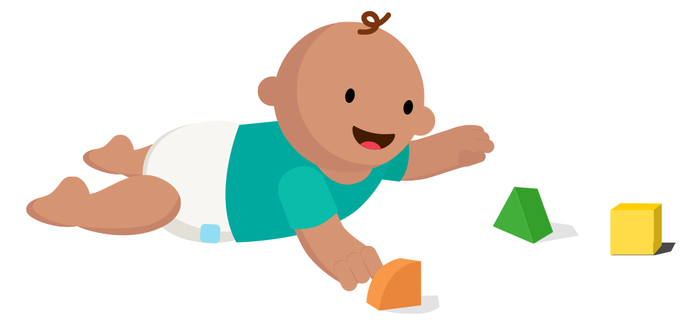
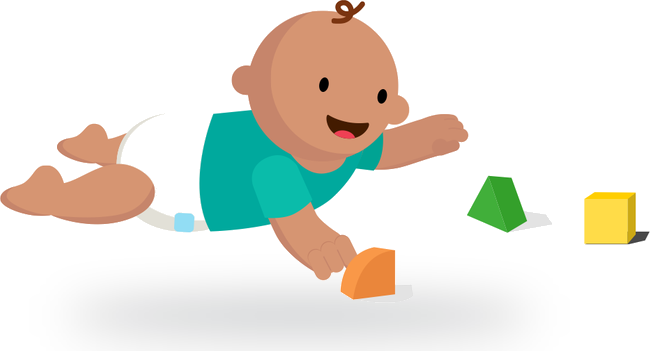
Assessment baby: kill the pasted-box look; feature numbers to strong-gray outline
- assess-baby.png: remade as transparent PNG with a baked soft floor-shadow so it sits naturally on the white card (was a white rectangle with a drop-shadow that looked like a pasted sticker). Removed the CSS drop-shadow filter; bumped size to 196px.
- .feature-row__num outline: blue stroke -> strong gray (rgba(14,27,44,0.45)) per user preference
- styles.css cache v=0617i->0617j

Changed region(s): [[0.0, 0.0, 0.7385, 0.9568], [0.7077, 0.4938, 1.0, 0.8025]]

diff --git a/styles.css b/styles.css
@@ -1220,10 +1220,10 @@ section[id], div[id] { scroll-margin-top: 96px; }
     font-weight: 900;
     line-height: 1;
     opacity: 1;
-    color: var(--kinedu-blue);
+    color: var(--text-primary);
     -webkit-text-fill-color: transparent;
-    -webkit-text-stroke: 2px rgba(43, 139, 228, 0.55);
-    text-stroke: 2px rgba(43, 139, 228, 0.55);
+    -webkit-text-stroke: 2px rgba(14, 27, 44, 0.45);
+    text-stroke: 2px rgba(14, 27, 44, 0.45);
     letter-spacing: -0.04em;
     margin-bottom: -8px;
 }
@@ -3648,7 +3648,7 @@ section[id], div[id] { scroll-margin-top: 96px; }
 .assess { padding: var(--section-pad) 24px; background: linear-gradient(150deg, #EBF3FF 0%, #F6FAFF 55%, #EDFAF4 100%); border-top: 1px solid var(--border); border-bottom: 1px solid var(--border); }
 .assess-card { position: relative; overflow: hidden; max-width: 1060px; margin: 0 auto; background: #fff; border: 1px solid var(--border); border-radius: 32px; box-shadow: 0 30px 80px rgba(14,27,44,.10); display: grid; grid-template-columns: 1.1fr 1fr; gap: 48px; align-items: center; padding: 56px 56px; }
 .assess-card::before { content: ''; position: absolute; width: 320px; height: 320px; border-radius: 50%; background: radial-gradient(circle, rgba(43,139,228,.10), transparent 70%); top: -120px; right: -80px; pointer-events: none; }
-.assess-baby { display: block; width: 184px; height: auto; margin-top: 30px; pointer-events: none; filter: drop-shadow(0 12px 20px rgba(14,27,44,.10)); }
+.assess-baby { display: block; width: 196px; height: auto; margin-top: 24px; pointer-events: none; }
 .assess-eyebrow { display: inline-flex; align-items: center; gap: 8px; background: var(--bg-soft-blue, #EAF4FD); color: var(--kinedu-blue); border-radius: 100px; padding: 7px 16px; font-size: 0.72rem; font-weight: 800; letter-spacing: .08em; text-transform: uppercase; margin-bottom: 18px; }
 .assess h2 { font-family: 'Plus Jakarta Sans', sans-serif; font-size: clamp(1.7rem, 3.4vw, 2.4rem); font-weight: 800; line-height: 1.15; letter-spacing: -.025em; color: var(--text-primary); margin-bottom: 14px; }
 .assess h2 em { font-style: normal; background: linear-gradient(90deg, #2B8BE4, #34C989); -webkit-background-clip: text; -webkit-text-fill-color: transparent; background-clip: text; }

diff --git a/index.html b/index.html
@@ -44,7 +44,7 @@ src="https://www.facebook.com/tr?id=2089634224620932&ev=PageView&noscript=1"
     <link href="https://fonts.googleapis.com/css2?family=Inter:wght@300;400;500;600;700;800;900&family=Plus+Jakarta+Sans:wght@400;500;600;700;800&display=swap" rel="stylesheet">
     <link rel="preload" as="image" href="TAP/NEW/desktop EN.webp" media="(min-width: 769px)">
     <link rel="preload" as="image" href="TAP/NEW/mobile EN.webp" media="(max-width: 768px)">
-    <link rel="stylesheet" href="styles.css?v=0617i">
+    <link rel="stylesheet" href="styles.css?v=0617j">
 <link rel="icon" href="/favicon.png" type="image/png">
 <link rel="apple-touch-icon" href="/apple-touch-icon.png">
 </head>
@@ -363,7 +363,7 @@ src="https://www.facebook.com/tr?id=2089634224620932&ev=PageView&noscript=1"
                     <span><svg width="15" height="15" viewBox="0 0 24 24" fill="none" stroke="currentColor" stroke-width="2.5" stroke-linecap="round" stroke-linejoin="round"><path d="M22 11.08V12a10 10 0 1 1-5.93-9.14"/><polyline points="22 4 12 14.01 9 11.01"/></svg> <span data-i18n="assess.m2">No sign-up needed</span></span>
                     <span><svg width="15" height="15" viewBox="0 0 24 24" fill="none" stroke="currentColor" stroke-width="2.5" stroke-linecap="round" stroke-linejoin="round"><path d="M22 11.08V12a10 10 0 1 1-5.93-9.14"/><polyline points="22 4 12 14.01 9 11.01"/></svg> <span data-i18n="assess.m3">Full report included</span></span>
                 </div>
-                <img src="illustrations/assess-baby.png" alt="" aria-hidden="true" class="assess-baby" loading="lazy" width="700" height="324">
+                <img src="illustrations/assess-baby.png" alt="" aria-hidden="true" class="assess-baby" loading="lazy" width="650" height="351">
             </div>
             <div class="assess-report" aria-hidden="true">
                 <div class="assess-report-label" data-i18n="assess.preview">You'll get a report like this</div>

diff --git a/articles.html b/articles.html
@@ -41,7 +41,7 @@ src="https://www.facebook.com/tr?id=2089634224620932&ev=PageView&noscript=1"
 <script>(function(){var d=document.documentElement;var l=localStorage.getItem('kinedu-lang');if(l)d.lang=l;d.classList.add('no-fouc');function r(){if(d.classList.contains('fouc-ready'))return;d.classList.remove('no-fouc');d.classList.add('fouc-ready')}if(document.readyState==='loading'){document.addEventListener('DOMContentLoaded',function(){requestAnimationFrame(r)})}else{requestAnimationFrame(r)}setTimeout(r,600)})()</script>
 <link rel="preconnect" href="https://fonts.googleapis.com">
 <link rel="preconnect" href="https://fonts.gstatic.com" crossorigin>
-<link rel="stylesheet" href="/styles.css?v=0617i">
+<link rel="stylesheet" href="/styles.css?v=0617j">
 <style>
 @import url('https://fonts.googleapis.com/css2?family=Plus+Jakarta+Sans:ital,wght@0,400;0,500;0,600;0,700;0,800;1,400&display=swap');
 *, *::before, *::after { box-sizing: border-box; margin: 0; padding: 0; }

diff --git a/browse.html b/browse.html
@@ -42,7 +42,7 @@ src="https://www.facebook.com/tr?id=2089634224620932&ev=PageView&noscript=1"
 <script>(function(){var d=document.documentElement;var l=localStorage.getItem('kinedu-lang');if(l)d.lang=l;d.classList.add('no-fouc');function r(){if(d.classList.contains('fouc-ready'))return;d.classList.remove('no-fouc');d.classList.add('fouc-ready')}if(document.readyState==='loading'){document.addEventListener('DOMContentLoaded',function(){requestAnimationFrame(r)})}else{requestAnimationFrame(r)}setTimeout(r,600)})()</script>
 <link rel="preconnect" href="https://fonts.googleapis.com">
 <link rel="preconnect" href="https://fonts.gstatic.com" crossorigin>
-<link rel="stylesheet" href="/styles.css?v=0617i">
+<link rel="stylesheet" href="/styles.css?v=0617j">
 <style>
 @import url('https://fonts.googleapis.com/css2?family=Plus+Jakarta+Sans:ital,wght@0,400;0,500;0,600;0,700;0,800;1,400&display=swap');
 *, *::before, *::after { box-sizing: border-box; margin: 0; padding: 0; }

diff --git a/experts.html b/experts.html
@@ -34,7 +34,7 @@ fbq('track', 'PageView');
 <link rel="preconnect" href="https://fonts.googleapis.com">
 <link rel="preconnect" href="https://fonts.gstatic.com" crossorigin>
 <link href="https://fonts.googleapis.com/css2?family=Inter:wght@300;400;500;600;700;800;900&family=Plus+Jakarta+Sans:wght@400;500;600;700;800&display=swap" rel="stylesheet">
-<link rel="stylesheet" href="styles.css?v=0617i">
+<link rel="stylesheet" href="styles.css?v=0617j">
 <style>
 .xp-hero { padding: 140px 24px 56px; text-align: center; background: linear-gradient(150deg, #EBF3FF 0%, #F6FAFF 55%, #EDFAF4 100%); }
 .xp-hero .sec-tag { margin-bottom: 16px; }

diff --git a/founder.html b/founder.html
@@ -40,7 +40,7 @@ src="https://www.facebook.com/tr?id=2089634224620932&ev=PageView&noscript=1"
     <link rel="preconnect" href="https://fonts.googleapis.com">
     <link rel="preconnect" href="https://fonts.gstatic.com" crossorigin>
     <link href="https://fonts.googleapis.com/css2?family=Inter:wght@300;400;500;600;700;800;900&family=Plus+Jakarta+Sans:wght@400;500;600;700;800&display=swap" rel="stylesheet">
-    <link rel="stylesheet" href="styles.css?v=0617i">
+    <link rel="stylesheet" href="styles.css?v=0617j">
     <style>
         /* =========================================
            FOUNDER PAGE — Clean redesign

diff --git a/live-classes.html b/live-classes.html
@@ -42,7 +42,7 @@ src="https://www.facebook.com/tr?id=2089634224620932&ev=PageView&noscript=1"
     <link rel="preconnect" href="https://fonts.googleapis.com">
     <link rel="preconnect" href="https://fonts.gstatic.com" crossorigin>
     <link href="https://fonts.googleapis.com/css2?family=Inter:wght@300;400;500;600;700;800;900&family=Plus+Jakarta+Sans:wght@400;500;600;700;800&display=swap" rel="stylesheet">
-    <link rel="stylesheet" href="styles.css?v=0617i">
+    <link rel="stylesheet" href="styles.css?v=0617j">
     <style>
         /* ── Live Classes page-specific styles ─────────────────────── */
 

diff --git a/science.html b/science.html
@@ -70,7 +70,7 @@ src="https://www.facebook.com/tr?id=2089634224620932&ev=PageView&noscript=1"
     <link rel="preconnect" href="https://fonts.googleapis.com">
     <link rel="preconnect" href="https://fonts.gstatic.com" crossorigin>
     <link href="https://fonts.googleapis.com/css2?family=Inter:wght@300;400;500;600;700;800;900&family=Plus+Jakarta+Sans:wght@400;500;600;700;800&display=swap" rel="stylesheet">
-    <link rel="stylesheet" href="styles.css?v=0617i">
+    <link rel="stylesheet" href="styles.css?v=0617j">
     <style>
         /* =========================================
            SCIENCE PAGE — Styles v2